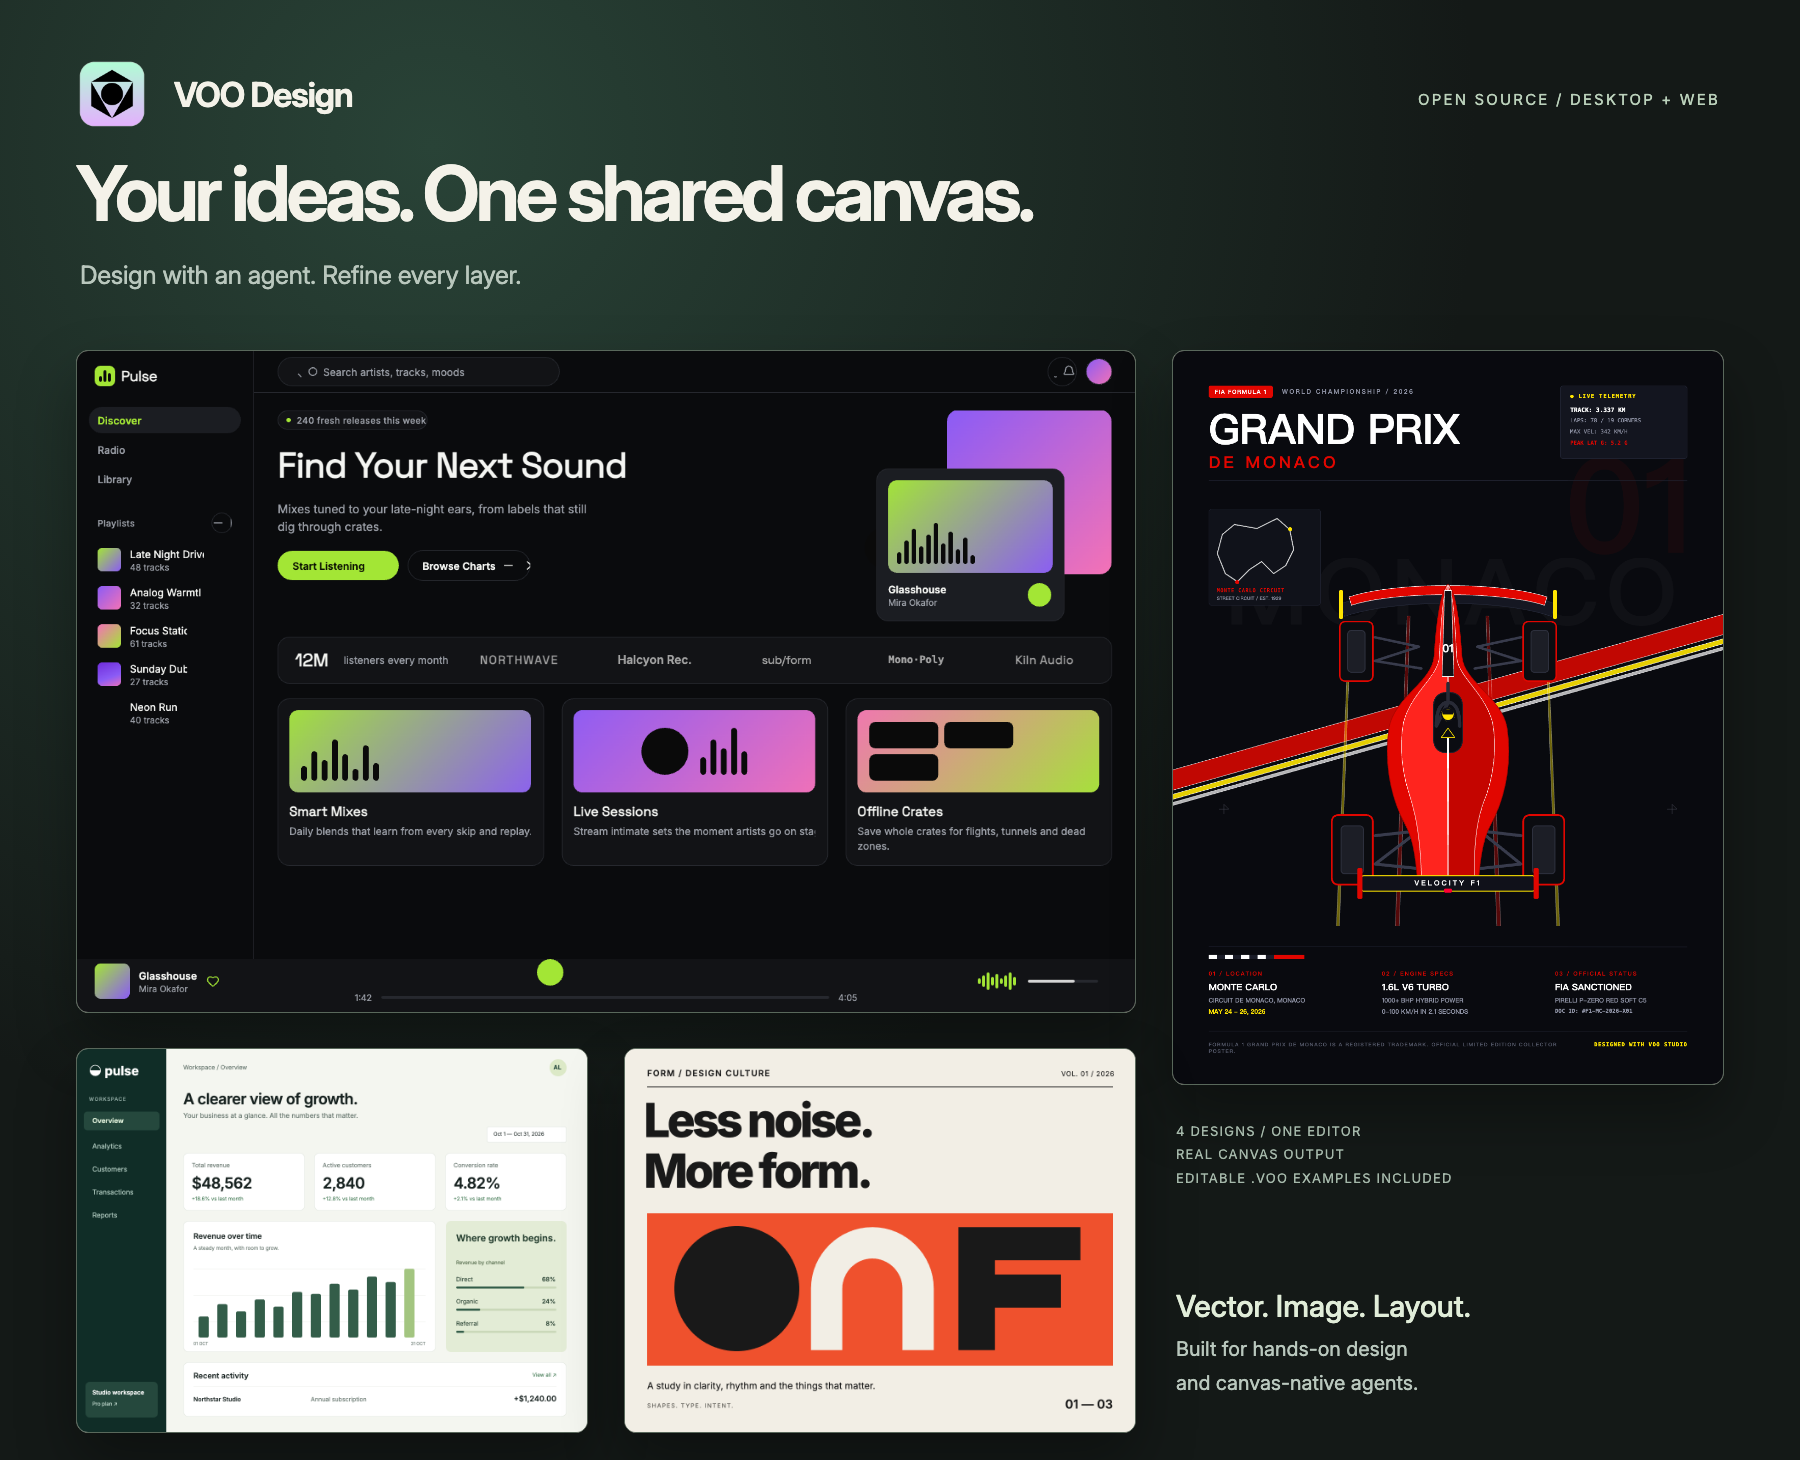
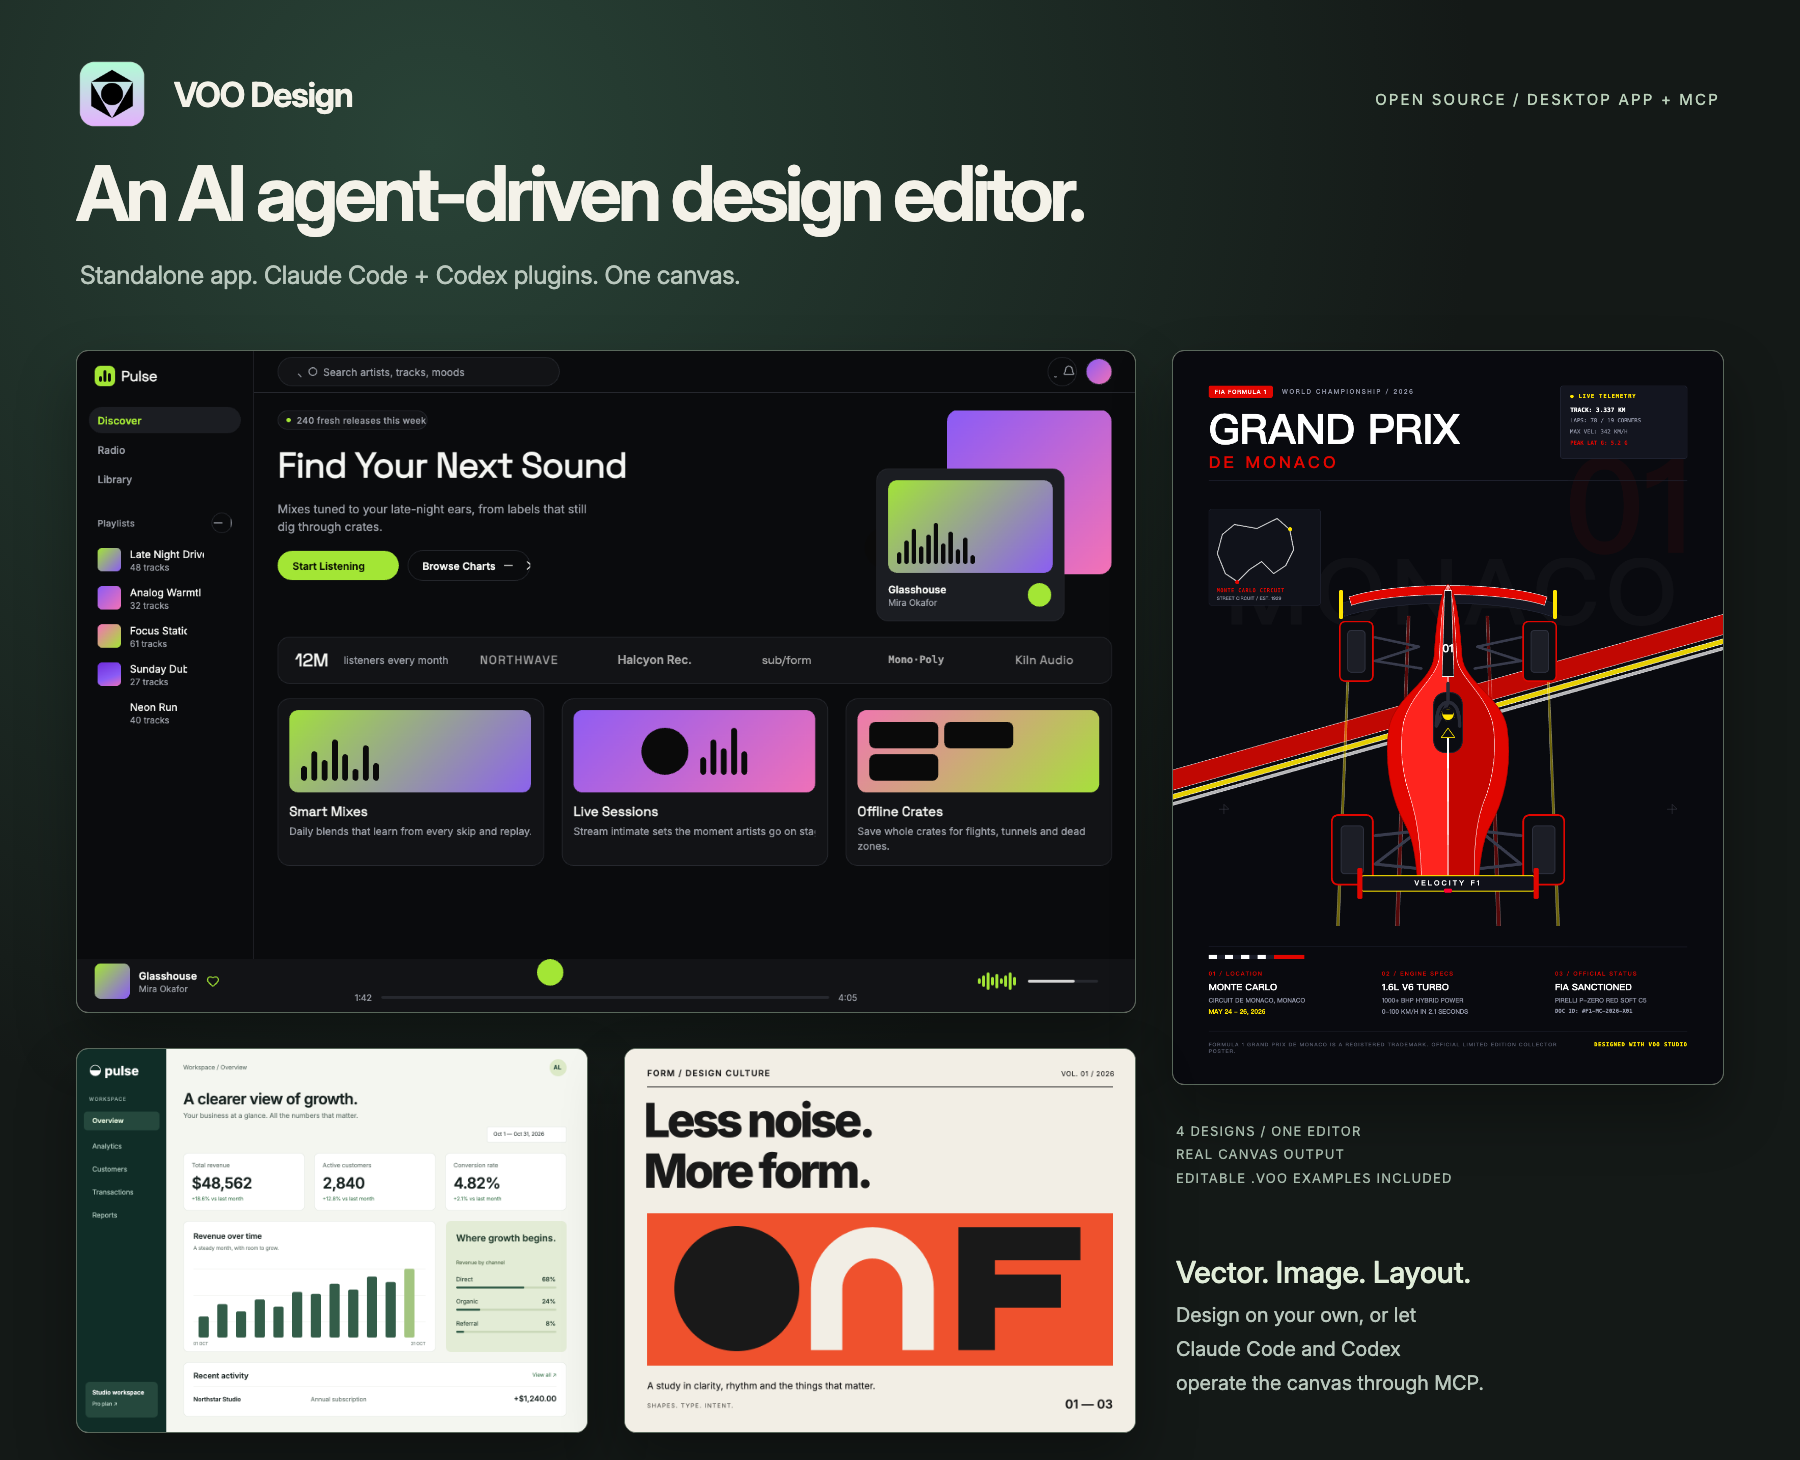
docs: showcase product UI and standalone MCP workflows

Changed region(s): [[0.0311, 0.0925, 0.6222, 0.2158], [0.6533, 0.863, 0.8089, 0.9555], [0.7778, 0.0616, 0.9022, 0.0925]]

diff --git a/README.md b/README.md
@@ -5,8 +5,8 @@
 <h1 align="center">VOO Design</h1>
 
 <p align="center">
-  <strong>Your ideas. One shared canvas.</strong><br />
-  <sub>Design with an agent. Refine every layer. An open-source editor for vector, image and layout design on desktop and web.</sub>
+  <strong>An AI agent-driven design editor.</strong><br />
+  <sub>A standalone design app. A canvas for Claude Code and Codex plugins through MCP.</sub>
 </p>
 
 <p align="center">
@@ -25,12 +25,61 @@
   <a href="docs/mcp-server.md">Connect your agent</a>
 </p>
 
-**VOO Design** brings hands-on editing and AI agents into the same document. Start with a blank canvas, an imported file or a prompt. Your agent can read the layer tree, build layouts and edit the canvas through undoable operations; you can select and refine the resulting text, shapes and images directly.
+**VOO Design is an AI agent-driven design editor — use it as an independent app, or connect it to Claude Code and Codex through a plugin/MCP connector.** Both workflows operate on the same editable canvas.
+
+| Use VOO on its own | Use VOO from your agent |
+| --- | --- |
+| Open the desktop app or web editor. Create and refine vector paths, text, images and layouts directly, with an optional in-app Agent. | Load the Claude Code plugin or register the VOO MCP connector in Codex. Your agent can inspect layers, create designs, edit text and styles, and capture the canvas through real editor operations. |
+
+The editor stays open as the canvas host. MCP connects your agent to that live document, so agent edits and direct editing share the same layers and undo history.
+
+### Connect Claude Code or Codex
+
+Build the portable connector into a new folder:
+
+```bash
+export VOO_PLUGIN_DIR=/absolute/new/voo-plugin
+node scripts/build-agent-plugin.mjs "$VOO_PLUGIN_DIR"
+```
+
+Load it as a **Claude Code plugin**:
+
+```bash
+claude --plugin-dir "$VOO_PLUGIN_DIR"
+```
+
+Or connect **Codex through MCP**:
+
+```bash
+codex mcp add voo -- node "$VOO_PLUGIN_DIR/scripts/mcp-server.mjs"
+```
+
+Keep VOO open. For the web editor, also run `npm run bridge`. Then ask your agent to inspect the canvas or create a design. See the [plugin guide](plugins/voo/README.md) and [MCP setup](docs/mcp-server.md) for requirements and connection details.
 
 - **One canvas for different kinds of work.** Compose interfaces, brand graphics and presentations with vector paths, text, images, masks, filters and Auto Layout.
 - **Agents work on the design itself.** Use a configured model provider, connect a local CLI agent, or drive the canvas from an external MCP client.
 - **Keep a portable source file.** Save editable projects as `.voo`, import existing work and export images, documents or handoff code.
 - **Choose desktop or web.** Electron adds native files, workspace folders and direct local CLI sessions. The browser editor can reach local CLIs through the loopback bridge.
+
+## Product tour
+
+### Workspace
+
+Start a design, import existing work and return to recent projects from one workspace.
+
+![VOO Design workspace showing the four example projects](docs/screenshots/ui-workspace.png)
+
+### Guided setup
+
+Choose an agent or model provider during the optional first-run setup.
+
+![VOO Design first-run guide with agent and model provider choices](docs/screenshots/ui-onboarding.png)
+
+### Edit on the canvas
+
+The music design is open in the editor below, with its headline selected. The layer tree, canvas selection and text properties are all part of the real editing interface.
+
+![VOO Design editing a music interface, with the headline selected and the layer tree and text inspector visible](docs/screenshots/ui-editor.png)
 
 ## Made with VOO
 

diff --git a/docs/quality-progress.md b/docs/quality-progress.md
@@ -170,3 +170,12 @@ node scripts/editor-checks.mjs --evidence /private/tmp/voo-release.json --json
 - Local cleanup moved 20 old files to recoverable workspace trash; the user restored the music and F1 projects, and the active library was checked to contain exactly the four selected projects. Cleanup stopped after that selection.
 - Verification: native container decoding, unique layer IDs and parent references, retained editable text, PNG dimensions, local documentation links and light/dark presentation checks. Exact publication revision and execution receipts: `/private/tmp/voo-showcase/evidence.json`.
 - This is documentation/example validation, not a new product release or a full functional audit. No application deployment is required; signed installers, external services and other platforms remain outside this check.
+
+## Product screenshots and agent-driven slogan — 2026-10-31
+
+- Scope: documentation and repository artwork only; no application source, module capabilities or original example documents changed.
+- Added three real 1600 × 1000 web screenshots: workspace with four project covers, optional Agent setup, and music design with the headline selected and the text inspector visible. Capture used an isolated browser profile and did not modify the user's project library.
+- Captured production entry: `assets/index-D9WDURy-.js`; capture receipt: `/private/tmp/voo-showcase/product-ui/capture.json`. This documents the live interface at capture time, not proof that every later revision or platform was tested.
+- README, cover and social preview use “An AI agent-driven design editor.” Functional module coverage remains unchanged and partial; the final publication revision and document/image checks are recorded in `/private/tmp/voo-showcase/product-ui/publication.json`.
+
+- Introduction now leads with standalone use and Claude Code plugin / Codex MCP integration, with connection commands matched to the existing connector guide. A separate review of public-tree wording is recorded outside the repository at `/private/tmp/voo-showcase/product-ui/published-wording-audit.json`; no source or historical research files were changed.

diff --git a/docs/examples/README.md b/docs/examples/README.md
@@ -17,6 +17,10 @@ Four designs selected from the local VOO project library for the repository intr
 
 The F1 file includes a second artboard to the right of the document canvas; zoom out to inspect it. The README export shows the primary Monaco poster. Its event copy, performance figures and status labels are illustrative concept content, not event information or a claim of official affiliation. The music interface and dashboard use fictional demonstration content and do not implement playback, payments or live data.
 
+## Product interface screenshots
+
+The three `ui-*.png` images in [screenshots](../screenshots/) are unaltered 1600 × 1000 captures of the live web editor at [voo.run/editor](https://voo.run/editor/), in an isolated browser profile. They show the workspace with these four examples, optional agent setup, and a selected text layer in the music design.
+
 ## Repository artwork
 
 - [README cover](../screenshots/cover.png): 1800 × 1460, composed from actual canvas exports and the existing App Icon.
